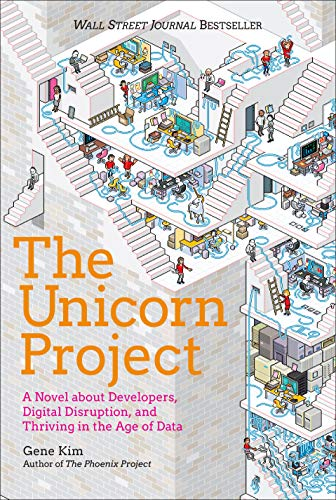
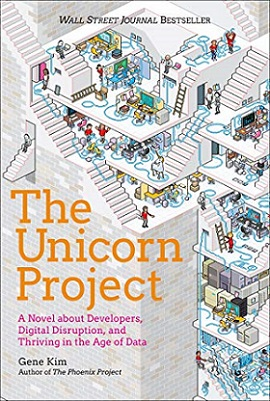
devops

diff --git a/index.html b/index.html
@@ -8,17 +8,20 @@
     <!-- Bootstrap CSS -->
     <link rel="stylesheet" href="https://stackpath.bootstrapcdn.com/bootstrap/4.4.1/css/bootstrap.min.css" integrity="sha384-Vkoo8x4CGsO3+Hhxv8T/Q5PaXtkKtu6ug5TOeNV6gBiFeWPGFN9MuhOf23Q9Ifjh" crossorigin="anonymous">
 
-    <title>Tomato Monkey</title>
+    <title>Tomato Monkey - The DevOps Guide</title>
   </head>
   <body>
-    <h1>Welcome to Tomato Monkey Website</h1>
-    <h3>A guide to Automation and DevOps</h3>
+    <div class="float-right">
+      <img src="pics/redmonkey.png" class="rounded" alt="Red Monkey">
+    </div>
     <div class="text-center">
-        <img src="pics/Ansible_logo.svg.png" class="rounded" alt="Ansible" >
+      <h1>Welcome to Tomato Monkey Website</h1>
+      <h3>A guide to Automation and DevOps</h3>
+      <img src="pics/Ansible_logo.svg.png" class="rounded" alt="Ansible" >
       </div>
       <div class="text-center">
         <img src="pics/thephoenix.png" class="rounded" alt="The Phoenix Project">
-        <img src="pics/theunicorn.png" class="rounded" alt="The Unicorn Project">
+        <img src="pics/theunicorn.jpg" class="rounded" alt="The Unicorn Project">
       </div>
     <!-- Optional JavaScript -->
     <!-- jQuery first, then Popper.js, then Bootstrap JS -->
